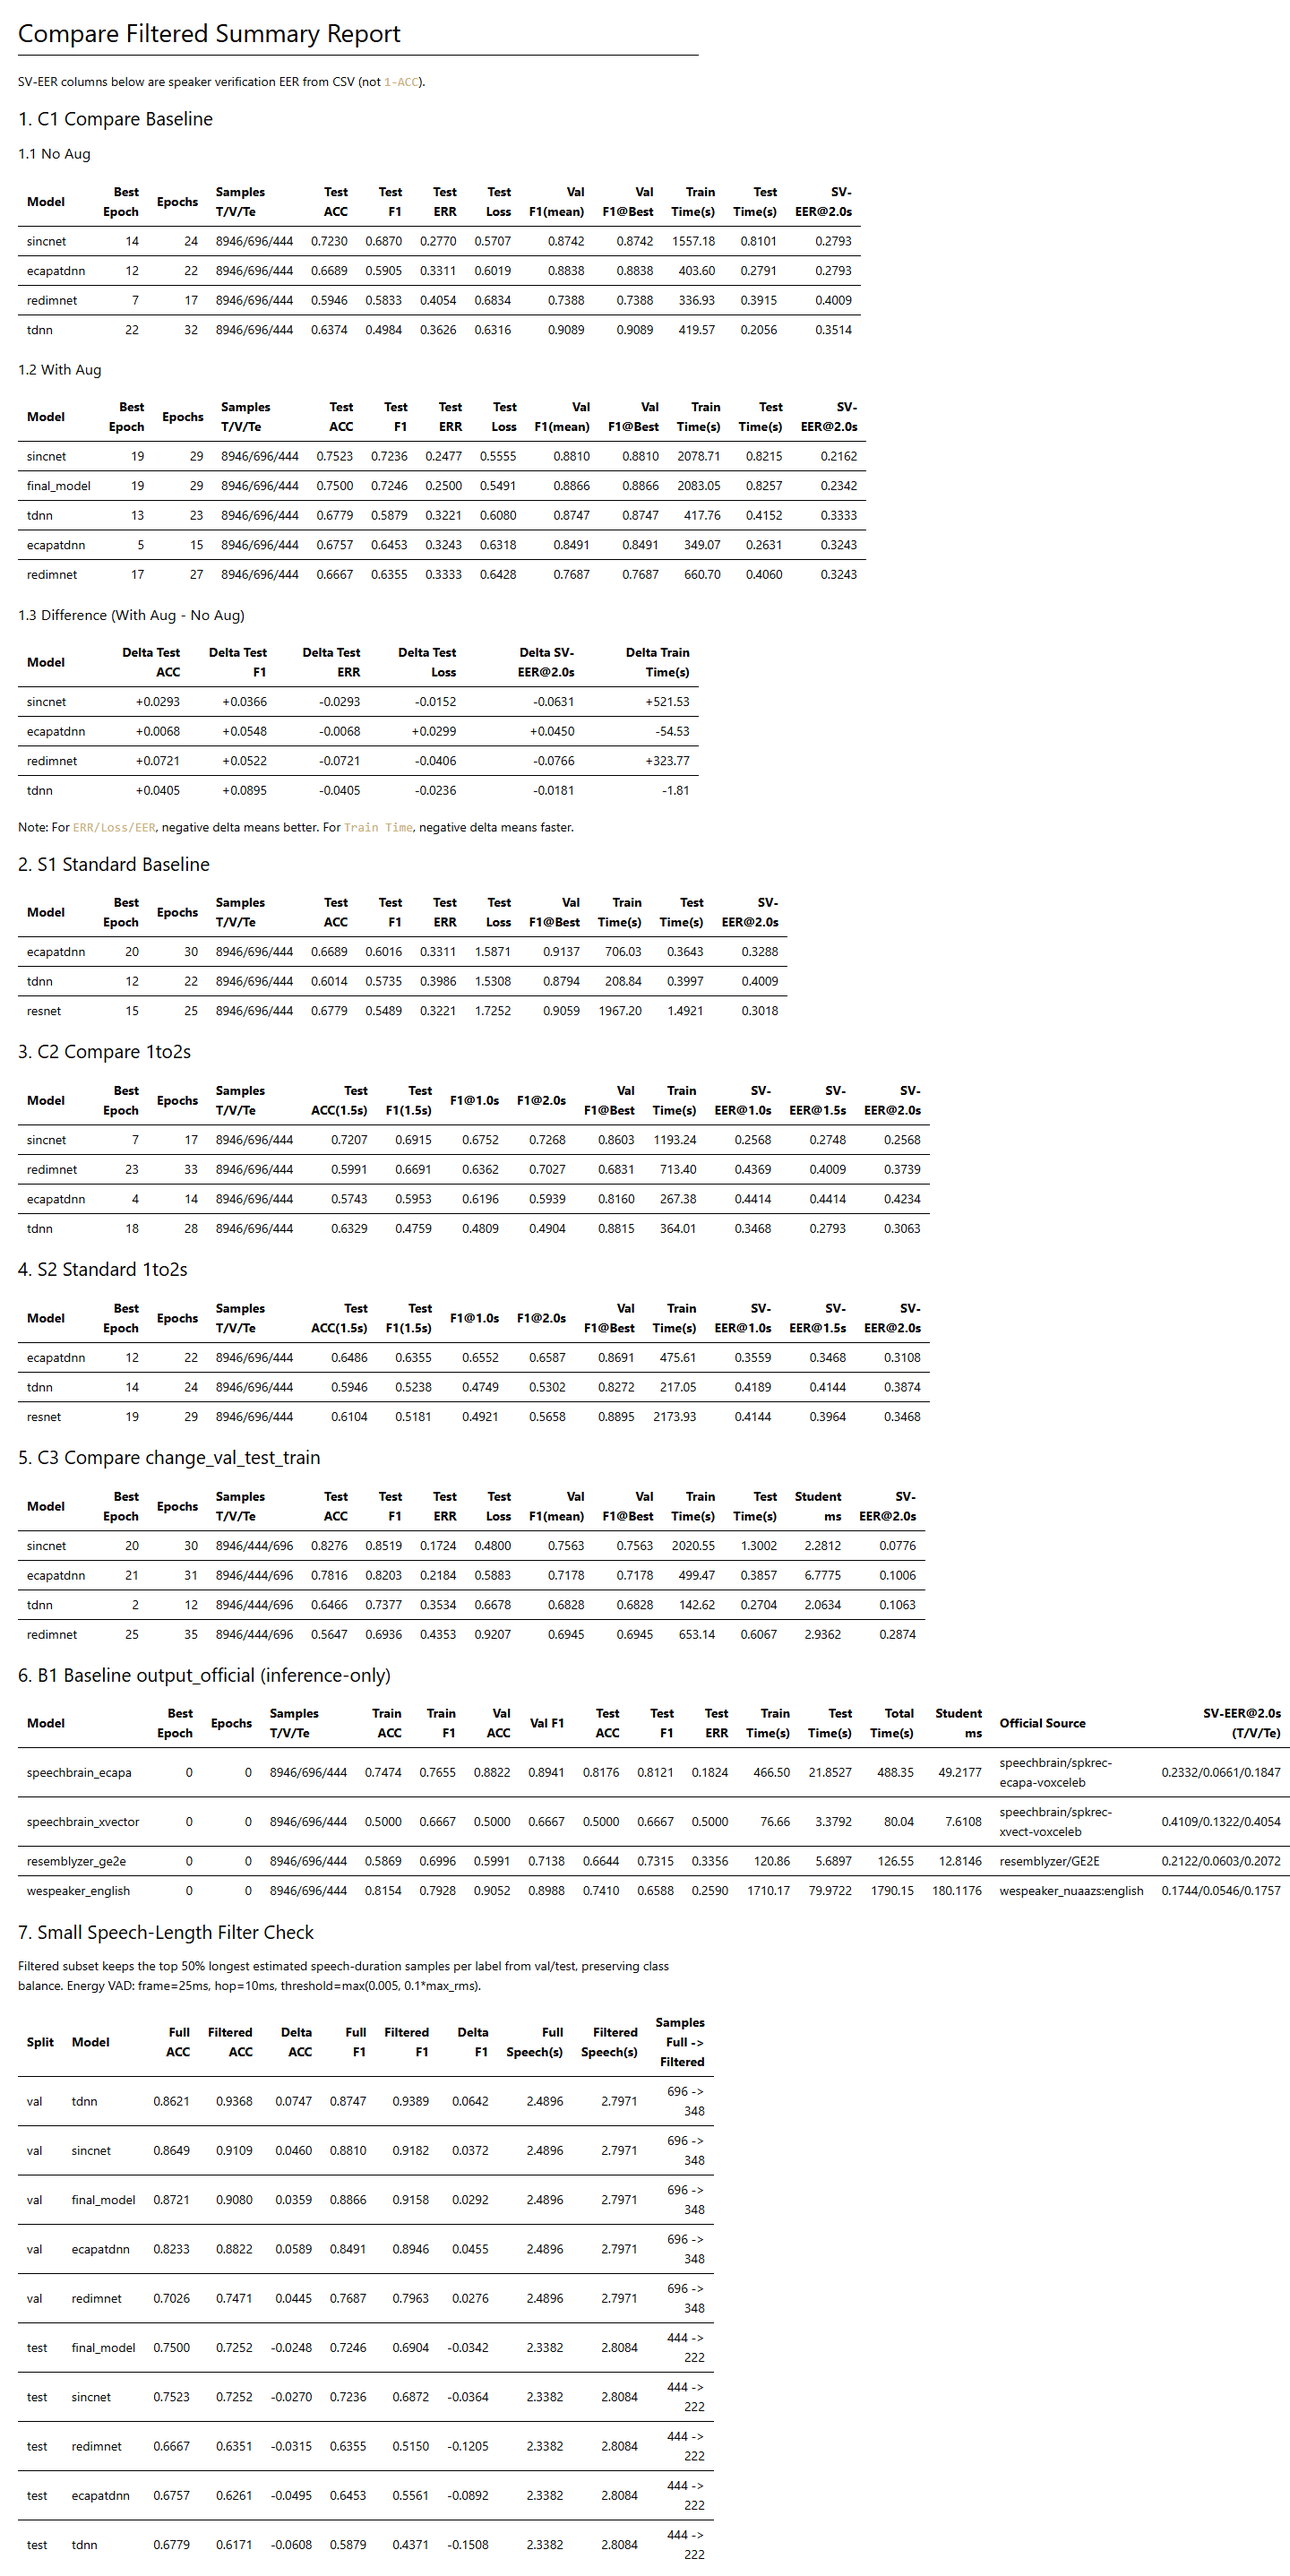
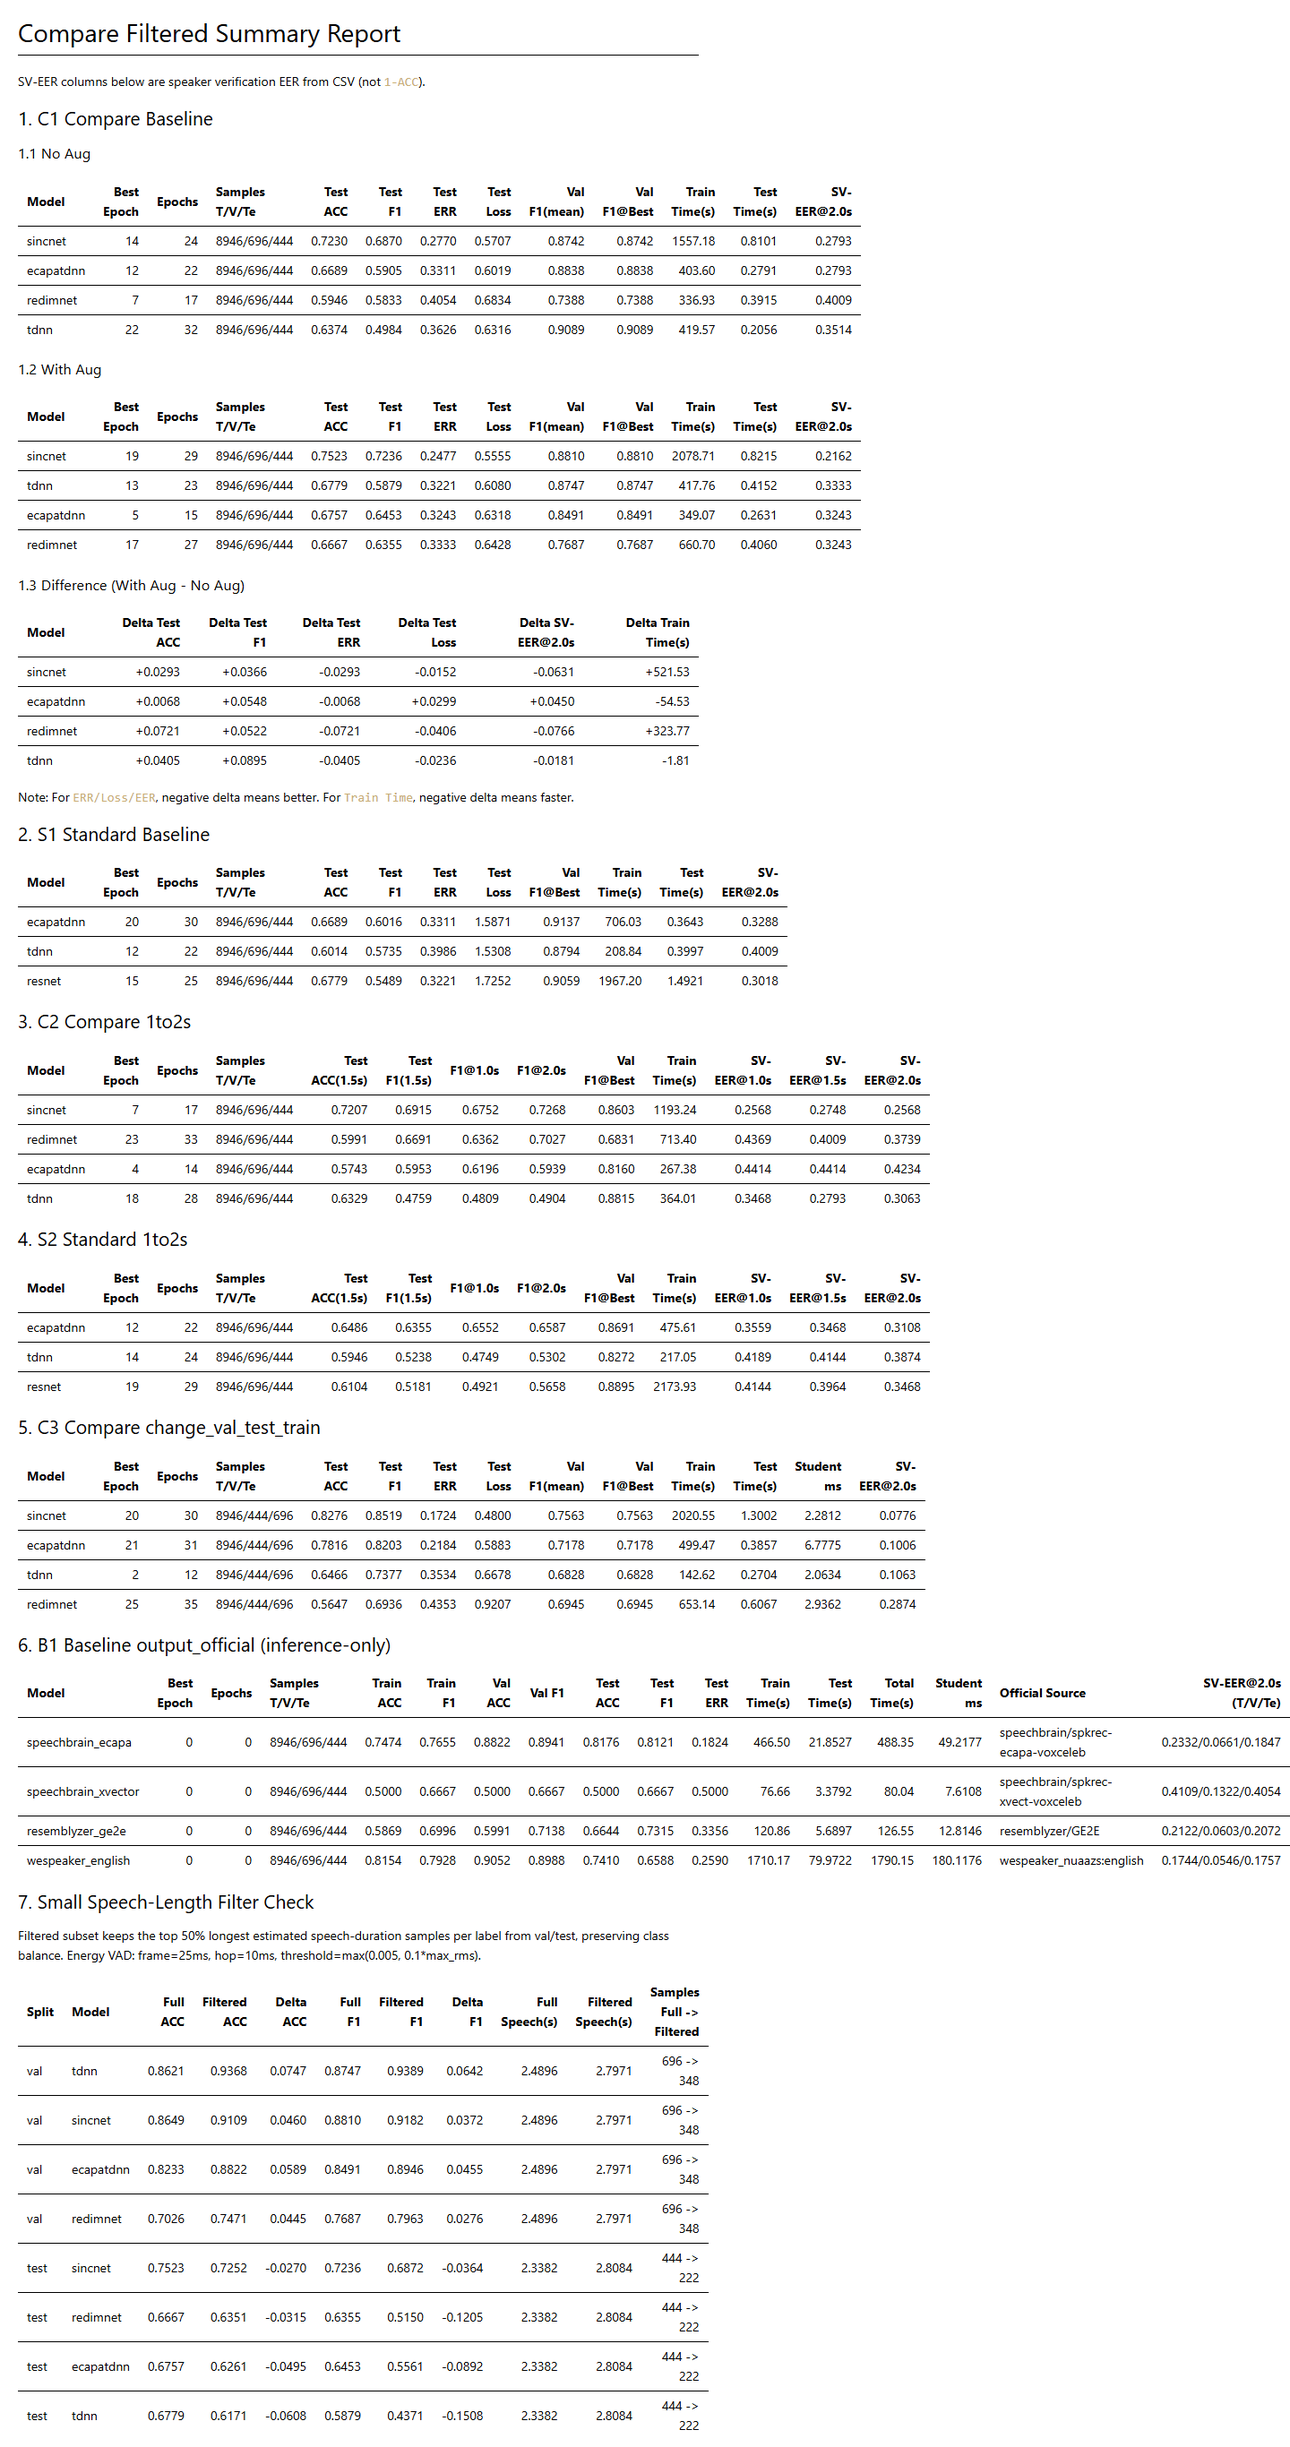
no final model

Changed region(s): [[0.0, 0.0, 1.0, 0.9956]]

diff --git a/dl_model/compare/output/report_ppt_compare_filtered_summary_2026-04-20.md b/dl_model/compare/output/report_ppt_compare_filtered_summary_2026-04-20.md
@@ -18,10 +18,11 @@ SV-EER columns below are speaker verification EER from CSV (not `1-ACC`).
 | Model | Best Epoch | Epochs | Samples T/V/Te | Test ACC | Test F1 | Test ERR | Test Loss | Val F1(mean) | Val F1@Best | Train Time(s) | Test Time(s) | SV-EER@2.0s |
 |---|---:|---:|---|---:|---:|---:|---:|---:|---:|---:|---:|---:|
 | sincnet | 19 | 29 | 8946/696/444 | 0.7523 | 0.7236 | 0.2477 | 0.5555 | 0.8810 | 0.8810 | 2078.71 | 0.8215 | 0.2162 |
-| final_model | 19 | 29 | 8946/696/444 | 0.7500 | 0.7246 | 0.2500 | 0.5491 | 0.8866 | 0.8866 | 2083.05 | 0.8257 | 0.2342 |
 | tdnn | 13 | 23 | 8946/696/444 | 0.6779 | 0.5879 | 0.3221 | 0.6080 | 0.8747 | 0.8747 | 417.76 | 0.4152 | 0.3333 |
 | ecapatdnn | 5 | 15 | 8946/696/444 | 0.6757 | 0.6453 | 0.3243 | 0.6318 | 0.8491 | 0.8491 | 349.07 | 0.2631 | 0.3243 |
 | redimnet | 17 | 27 | 8946/696/444 | 0.6667 | 0.6355 | 0.3333 | 0.6428 | 0.7687 | 0.7687 | 660.70 | 0.4060 | 0.3243 |
+
+<!-- hidden final_model row: Best Epoch=19, Epochs=29, Samples=8946/696/444, Test ACC=0.7500, Test F1=0.7246, Test ERR=0.2500, Test Loss=0.5491, Val F1(mean)=0.8866, Val F1@Best=0.8866, Train Time=2083.05s, Test Time=0.8257s, SV-EER@2.0s=0.2342 -->
 
 ### 1.3 Difference (With Aug - No Aug)
 
@@ -85,11 +86,11 @@ Filtered subset keeps the top 50% longest estimated speech-duration samples per 
 |---|---|---:|---:|---:|---:|---:|---:|---:|---:|---:|
 | val | tdnn | 0.8621 | 0.9368 | 0.0747 | 0.8747 | 0.9389 | 0.0642 | 2.4896 | 2.7971 | 696 -> 348 |
 | val | sincnet | 0.8649 | 0.9109 | 0.0460 | 0.8810 | 0.9182 | 0.0372 | 2.4896 | 2.7971 | 696 -> 348 |
-| val | final_model | 0.8721 | 0.9080 | 0.0359 | 0.8866 | 0.9158 | 0.0292 | 2.4896 | 2.7971 | 696 -> 348 |
 | val | ecapatdnn | 0.8233 | 0.8822 | 0.0589 | 0.8491 | 0.8946 | 0.0455 | 2.4896 | 2.7971 | 696 -> 348 |
 | val | redimnet | 0.7026 | 0.7471 | 0.0445 | 0.7687 | 0.7963 | 0.0276 | 2.4896 | 2.7971 | 696 -> 348 |
-| test | final_model | 0.7500 | 0.7252 | -0.0248 | 0.7246 | 0.6904 | -0.0342 | 2.3382 | 2.8084 | 444 -> 222 |
 | test | sincnet | 0.7523 | 0.7252 | -0.0270 | 0.7236 | 0.6872 | -0.0364 | 2.3382 | 2.8084 | 444 -> 222 |
 | test | redimnet | 0.6667 | 0.6351 | -0.0315 | 0.6355 | 0.5150 | -0.1205 | 2.3382 | 2.8084 | 444 -> 222 |
 | test | ecapatdnn | 0.6757 | 0.6261 | -0.0495 | 0.6453 | 0.5561 | -0.0892 | 2.3382 | 2.8084 | 444 -> 222 |
 | test | tdnn | 0.6779 | 0.6171 | -0.0608 | 0.5879 | 0.4371 | -0.1508 | 2.3382 | 2.8084 | 444 -> 222 |
+
+<!-- hidden final_model rows: val Full ACC=0.8721, Filtered ACC=0.9080, Delta ACC=0.0359, Full F1=0.8866, Filtered F1=0.9158, Delta F1=0.0292, Full Speech=2.4896s, Filtered Speech=2.7971s, Samples=696 -> 348; test Full ACC=0.7500, Filtered ACC=0.7252, Delta ACC=-0.0248, Full F1=0.7246, Filtered F1=0.6904, Delta F1=-0.0342, Full Speech=2.3382s, Filtered Speech=2.8084s, Samples=444 -> 222 -->
